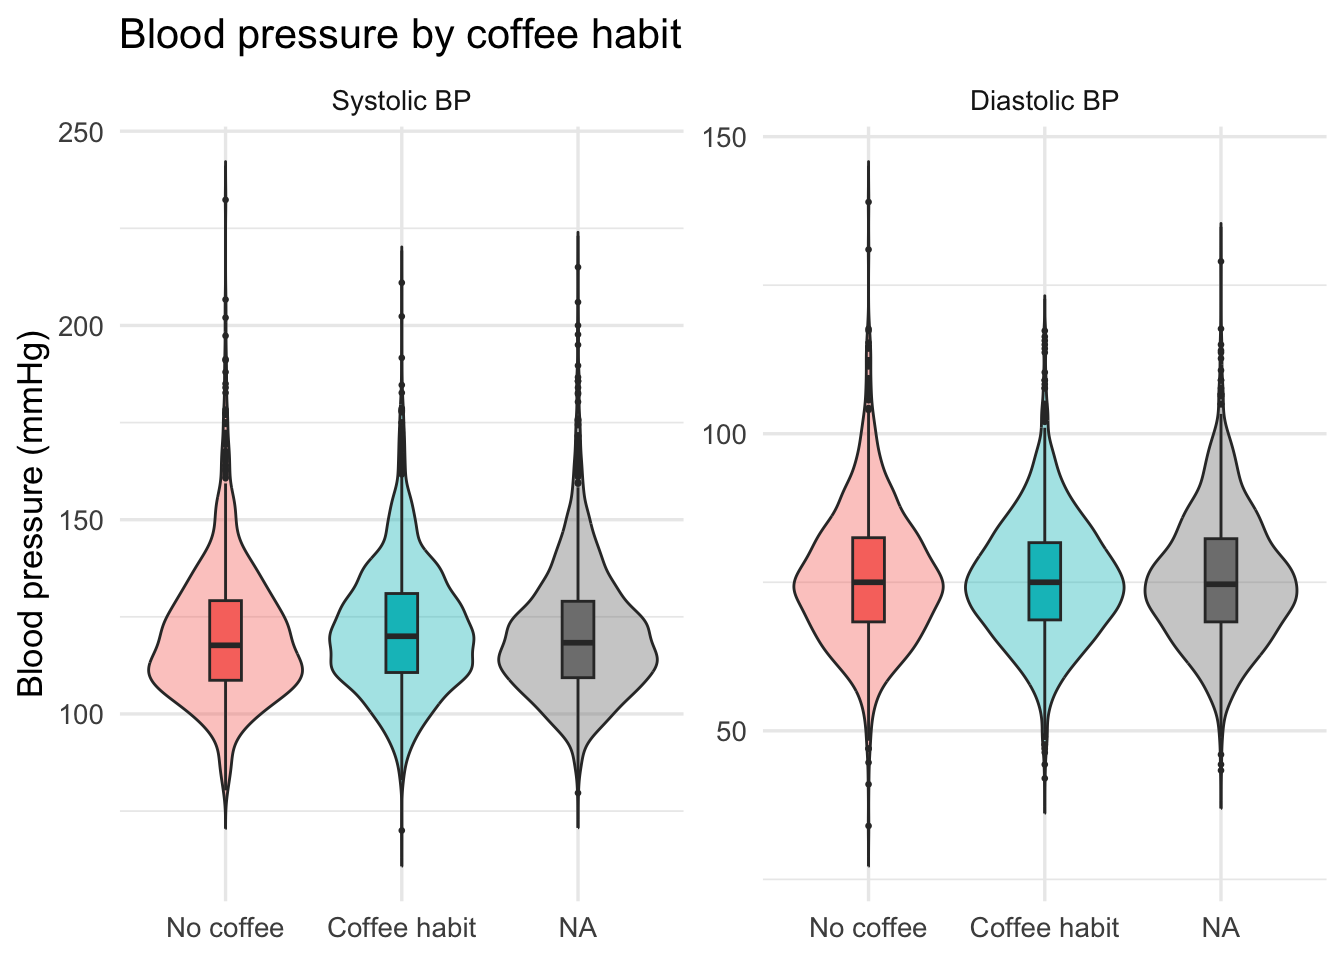
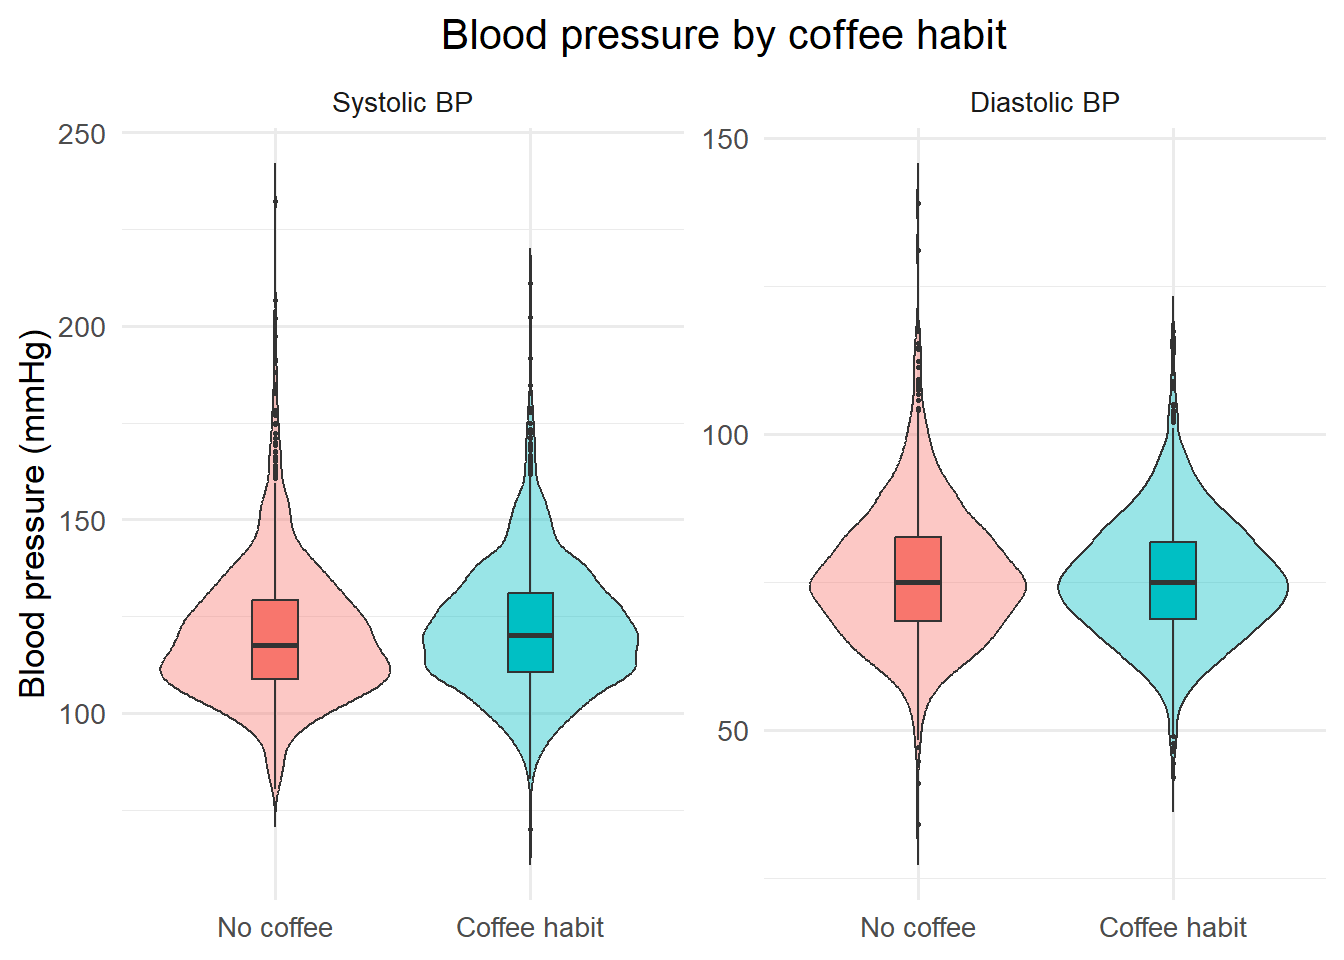
updates on plot title positions

diff --git a/Pulse---Pressure.html b/Pulse---Pressure.html
@@ -251,6 +251,9 @@ $(document).ready(function () {
   <a href="proposal.html">Proposal</a>
 </li>
 <li>
+  <a href="Analysis.html">Analysis</a>
+</li>
+<li>
   <a href="https://github.com/juantang36/caffeinehealth.github.io.git">
     <span class="fa fa-github fa-lg"></span>
      
@@ -295,11 +298,12 @@ gg_bp_violin &lt;- ggplot(bp_long,
   labs(x = NULL, y = &quot;Blood pressure (mmHg)&quot;,
        title = &quot;Blood pressure by coffee habit&quot;) +
   theme_minimal(base_size = 13) +
-  theme(legend.position = &quot;none&quot;)
+  theme(legend.position = &quot;none&quot;, 
+        plot.title = element_text(hjust = 0.5))
 gg_bp_violin</code></pre>
-<pre><code>## Warning: Removed 2980 rows containing non-finite outside the scale range
+<pre><code>## Warning: Removed 114 rows containing non-finite outside the scale range
 ## (`stat_ydensity()`).</code></pre>
-<pre><code>## Warning: Removed 2980 rows containing non-finite outside the scale range
+<pre><code>## Warning: Removed 114 rows containing non-finite outside the scale range
 ## (`stat_boxplot()`).</code></pre>
 <p><img src="Pulse---Pressure_files/figure-html/unnamed-chunk-3-1.png" width="672" />
 The distributions of systolic and diastolic blood pressure among groups
@@ -348,7 +352,8 @@ gg_bp_mean_line &lt;-
   labs(x = NULL, y = &quot;Mean BP (mmHg)&quot;,
        color = NULL,
        title = &quot;Mean Systolic &amp; Diastolic BP by coffee habit&quot;) +
-  theme_minimal(base_size = 13)
+  theme_minimal(base_size = 13) + 
+  theme(plot.title = element_text(hjust = 0.5))
 gg_bp_mean_line</code></pre>
 <p><img src="Pulse---Pressure_files/figure-html/unnamed-chunk-4-1.png" width="672" />
 Displayed here with 95% confidence intervals are the mean diastolic and
@@ -369,10 +374,11 @@ whole.</p>
   labs(x = &quot;Pulse (beats/min)&quot;, y = NULL,
        title = &quot;Pulse distribution by coffee habit&quot;) +
   theme_minimal(base_size = 13) +
-  theme(legend.position = &quot;none&quot;)
+  theme(legend.position = &quot;none&quot;, 
+        plot.title = element_text(hjust = 0.5))
 gg_pulse_ridge</code></pre>
 <pre><code>## Picking joint bandwidth of 2.48</code></pre>
-<pre><code>## Warning: Removed 1490 rows containing non-finite outside the scale range
+<pre><code>## Warning: Removed 57 rows containing non-finite outside the scale range
 ## (`stat_density_ridges()`).</code></pre>
 <p><img src="Pulse---Pressure_files/figure-html/unnamed-chunk-5-1.png" width="672" />
 The ridgeline density plot visualizes pulse-rate distributions across
@@ -391,11 +397,12 @@ provides an intuitive sense of how pulse varies across the cohort.</p>
   labs(x = NULL, y = &quot;Average sleep duration (hours)&quot;,
        title = &quot;Average sleep time by coffee habit&quot;) +
   theme_minimal(base_size = 13) +
-  theme(legend.position = &quot;none&quot;)
+  theme(legend.position = &quot;none&quot;, 
+        plot.title = element_text(hjust = 0.5))
 gg_sleep_violin</code></pre>
-<pre><code>## Warning: Removed 101 rows containing non-finite outside the scale range
+<pre><code>## Warning: Removed 32 rows containing non-finite outside the scale range
 ## (`stat_ydensity()`).</code></pre>
-<pre><code>## Warning: Removed 101 rows containing non-finite outside the scale range
+<pre><code>## Warning: Removed 32 rows containing non-finite outside the scale range
 ## (`stat_boxplot()`).</code></pre>
 <p><img src="Pulse---Pressure_files/figure-html/unnamed-chunk-6-1.png" width="672" />
 This visualization shows the distribution of average daily sleep time
@@ -431,13 +438,14 @@ gg_sleep_paired &lt;-
   facet_wrap(~ coffee_group) +
   labs(x = NULL, y = &quot;Sleep duration (hours)&quot;,
        title = &quot;Weekday vs weekend sleep by coffee habit&quot;) +
-  theme_minimal(base_size = 13)
+  theme_minimal(base_size = 13) + 
+  theme(plot.title = element_text(hjust = 0.5))
 gg_sleep_paired</code></pre>
-<pre><code>## Warning: Removed 161 rows containing non-finite outside the scale range
+<pre><code>## Warning: Removed 45 rows containing non-finite outside the scale range
 ## (`stat_summary()`).
-## Removed 161 rows containing non-finite outside the scale range
+## Removed 45 rows containing non-finite outside the scale range
 ## (`stat_summary()`).</code></pre>
-<pre><code>## Warning: Removed 161 rows containing missing values or values outside the scale range
+<pre><code>## Warning: Removed 45 rows containing missing values or values outside the scale range
 ## (`geom_line()`).</code></pre>
 <p><img src="Pulse---Pressure_files/figure-html/unnamed-chunk-7-1.png" width="672" />
 Individual differences in sleep duration on weekdays and weekends are
